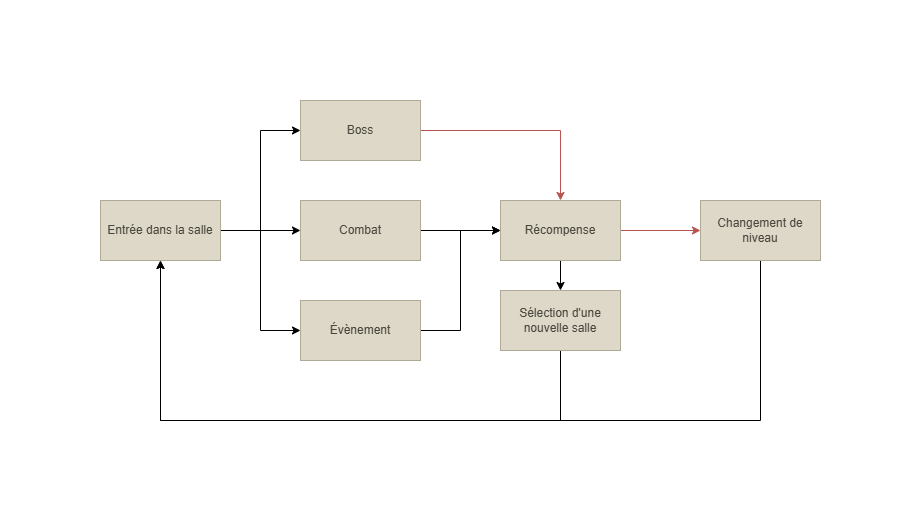
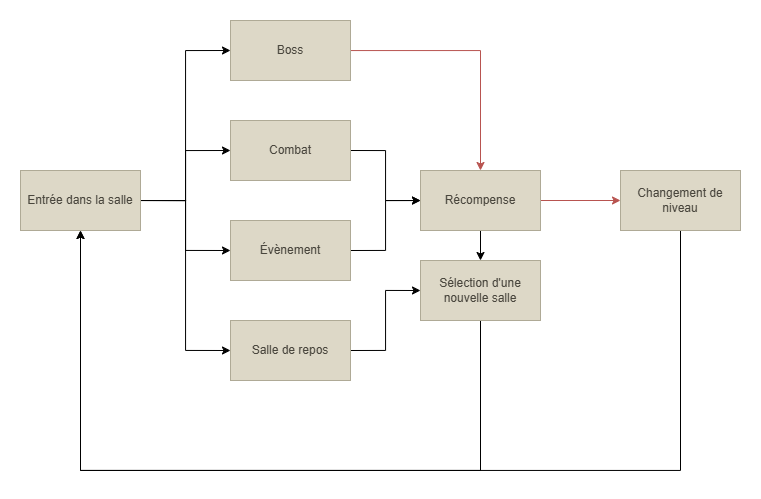
Quartz sync: Oct 24, 2025, 6:00 PM

Changed region(s): [[0.0, 0.0301, 0.9974, 0.8116], [0.1209, 0.9319, 0.6347, 0.9619]]

diff --git a/content/2-Boucle de gameplay/2-2.Boucle de gameplay détaillée.md b/content/2-Boucle de gameplay/2-2.Boucle de gameplay détaillée.md
@@ -21,21 +21,26 @@ Quand tous les ennemis sont éliminés, de nouveaux cercles apparaissent si une 
 La caméra reste reculée pendant l'intégralité du combat pour que le joueur ai une vision globale de l'environnement et des ennemis.
 
 ## 3- Évènement
+Les évènements sont des salles spéciales dans lesquelles le joueur peut être confronté à des situations différentes.
+- Évènement à choix multiples: Le jeu présente une situation textuelle au joueur qui doit choisir entre deux ou plus finalités. Chaque choix apporte son lot d'avantages et de désavantages.
+- Challenge: La salle oppose un challenge au joueur qui se voit récompensé s'il réussit. Il peut par exemple s'agir de naviguer dans une salle sans subir de dégâts ou d'affronter une vague d'ennemis sans utiliser certaines features.
+## 4-Salle de repos
+Les salles de repos sont vides à l'exception d'un élément central avec lequel interagir. Quand le joueur active cet élément les contrôles de l'avatar sont bloqués et le menu de repos s'ouvre. Le joueur peut y dépenser un nombre limite de ressources (unités de temps) pour effectuer des actions avant de devoir reprendre la partie.
 
-## 4-Récompense
+## 5-Récompense
 Lors du choix des récompenses les contrôles de l'avatar sont verrouillés et le menu de récompense s'ouvre. Une fois que le joueur a sélectionné une récompense le menu se ferme et les contrôles de l'avatar sont restitués. Une fois la récompense sélectionnée, les sorties de la salle s'ouvrent.
 
-## 5-Sélectiond'une nouvelle salle
+## 6-Sélectiond'une nouvelle salle
 ### Comportement du jeu
-Lorsque les sorties sont déverrouillées l'avatar peut entrer dans l'une des sorties pour choisir le prochain type de salle dans laquelle il va entrer. Il peut s'agir d'un **combat** ou d'un **évènement**. Les combats indiquent d'avance le type de récompenses que le joueur peut obtenir (Améliorations, ressources, vie etc...) tandis que les évènement donnent des récompenses en fonction des actions du joueur.
+Lorsque les sorties sont déverrouillées l'avatar peut entrer dans l'une des sorties pour choisir le prochain type de salle dans laquelle il va entrer. Il peut s'agir d'un **combat** ou d'un **évènement**. Les sorties indiquent d'avance le type de récompenses que le joueur peut obtenir (Améliorations, ressources, réparations, etc...). Certains évènements sont marqués par un "**?**" si leur récompenses dépend des actions du joueur.
 ### Comportement de la caméra
 Quand l'avatar entre dans une des sorties, la caméra se recentre lentement sur lui et zoom légèrement jusqu'à ce qu'il atteigne l'entrée de la prochaine salle.
-## 6-Boss
+## 7-Boss
 ### Comportement du jeu
 Lors de l'entrée dans une salle de boss, l'ennemi principal est déjà présent dans l'environnement mais ne s'active pas immédiatement. L'entrée et la sortie se verrouille immédiatement après l'entrée du joueur puis, le boss est introduit par un cut-in et le combat commence.
 Lorsqu'un boss est vaincu, le menu des récompenses s'ouvre et la sortie vers le niveau suivant s'ouvre.
 ### comportement de la caméra
 La caméra reste reculée pendant l'intégralité du combat pour que le joueur ai une vision globale de l'environnement et des ennemis.
 
-## 7-Changement de niveau
+## 8-Changement de niveau
 Lorsque le joueur entre dans la sortie d'une salle de boss, la caméra zoom sur la sortie et fait un fondu au noir. Le joueur sélectionne ensuite le prochain boss à affronter déterminant ainsi le niveau dans lequel il entre.
